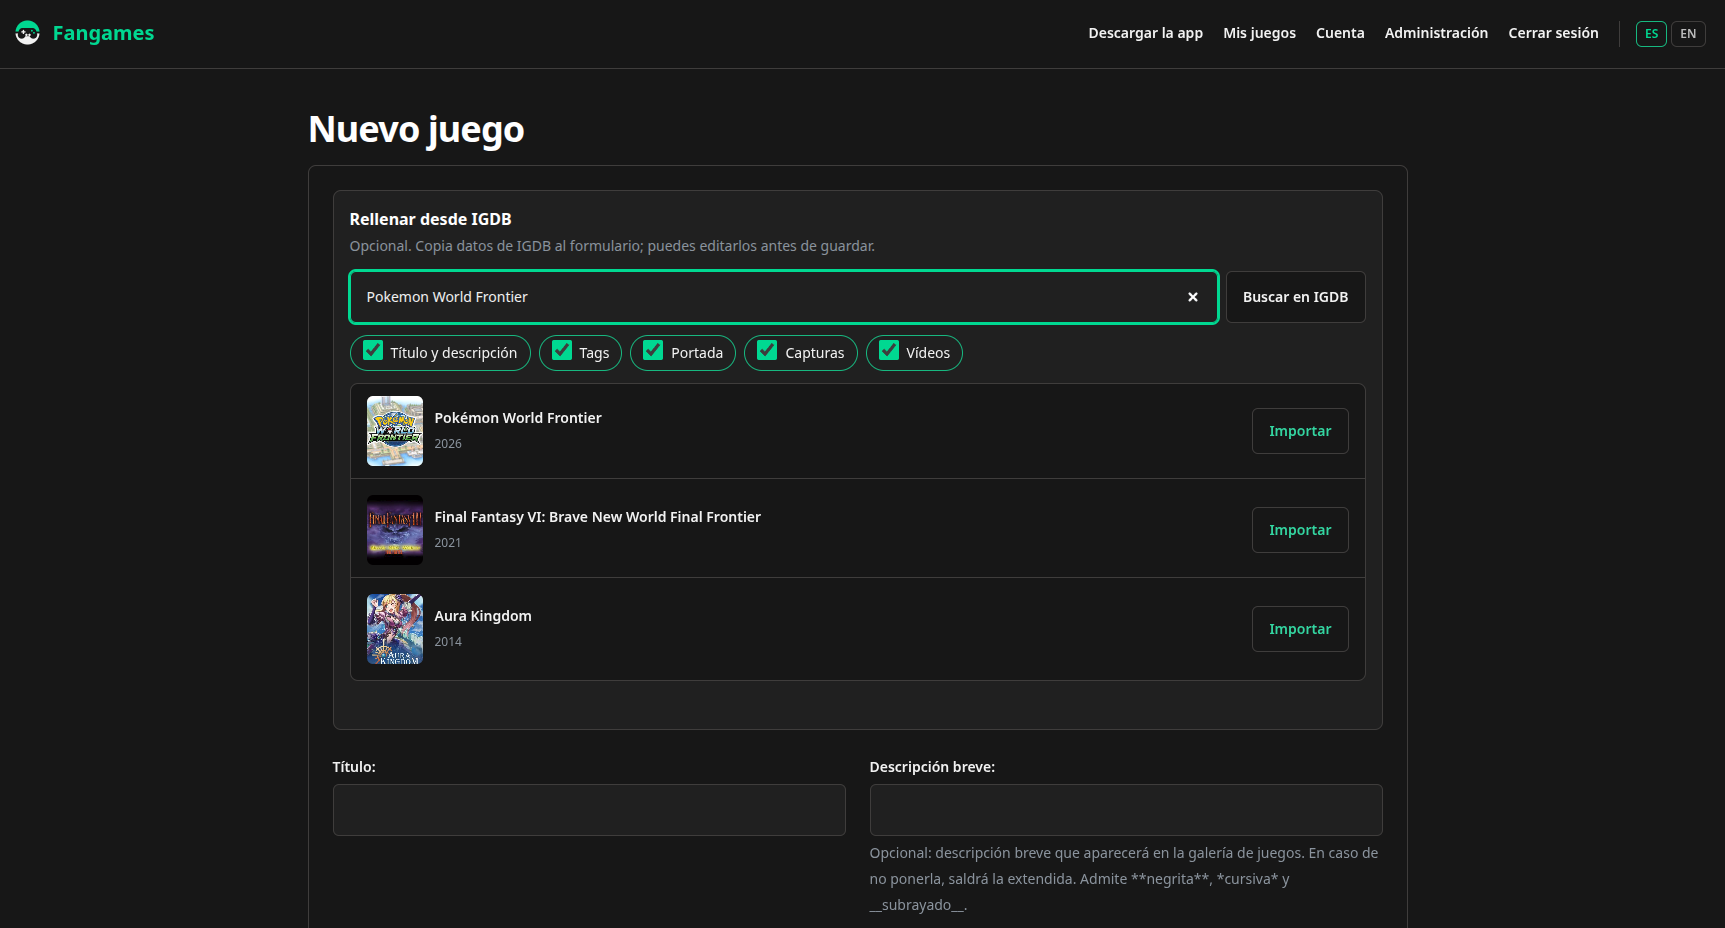
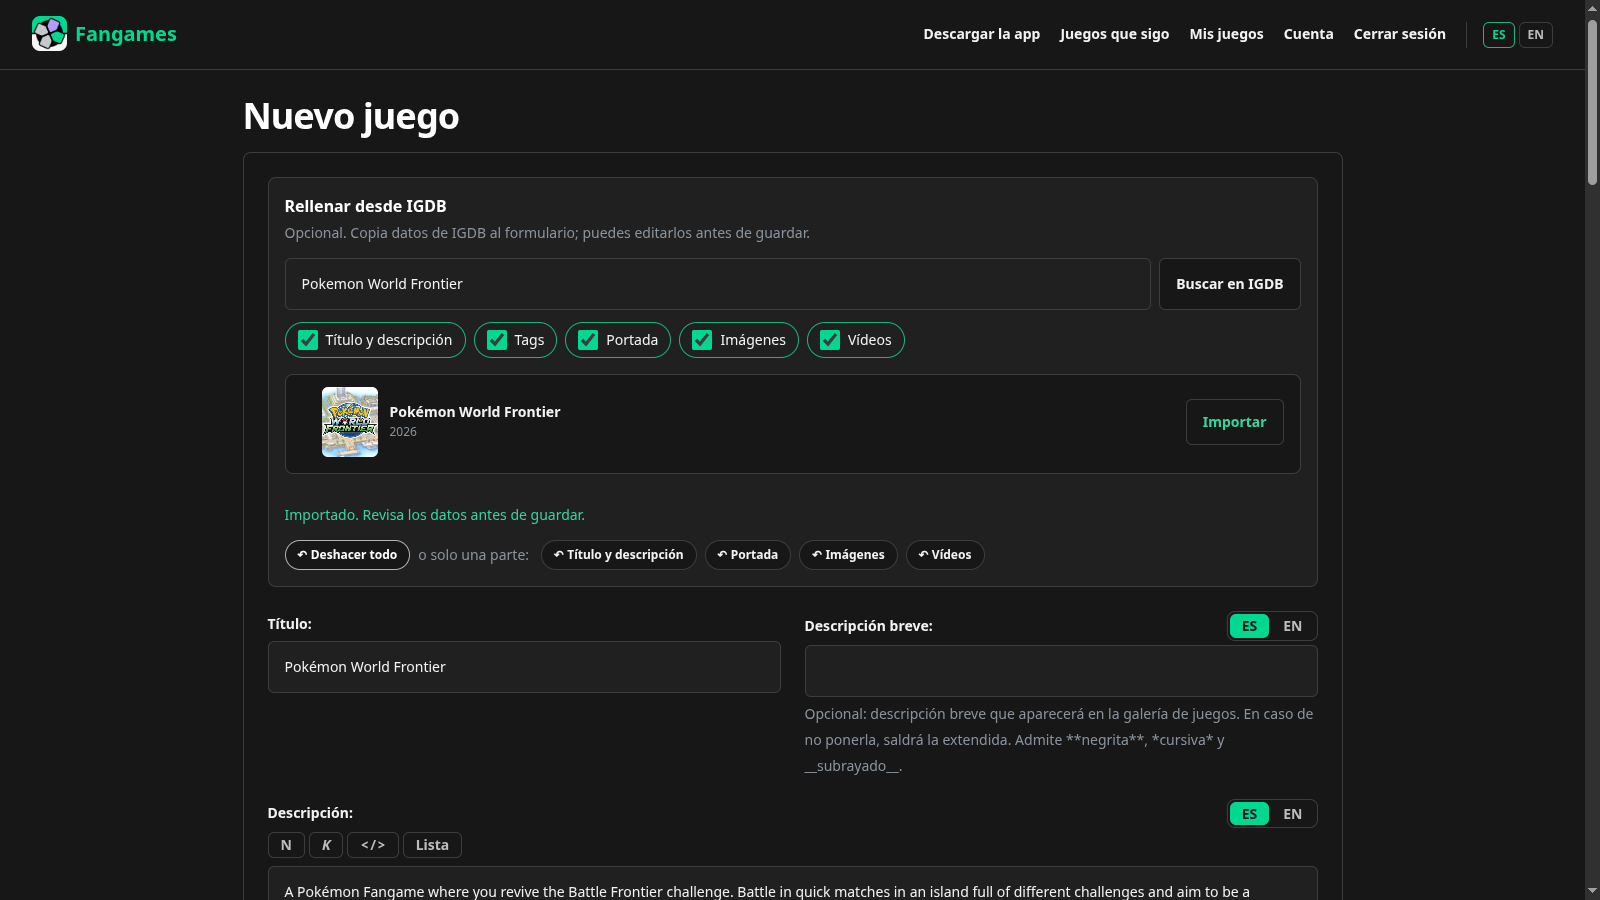
Actualiza capturas de la web de los makers

diff --git a/docs/index.html b/docs/index.html
@@ -117,19 +117,19 @@
     <div class="screens" aria-label="Capturas del portal de makers" data-i18n-aria="makers.screens">
       <figure class="screen">
         <a href="assets/screenshots/makers-igdb.png" aria-label="Ampliar captura de la importación desde IGDB" data-i18n-aria="makers.igdb.link">
-          <img src="assets/screenshots/makers-igdb.png" alt="Buscador de IGDB en el formulario del portal, con resultados e interruptores para elegir qué importar" data-i18n-alt="makers.igdb.alt" width="1137" height="740" loading="lazy" decoding="async">
+          <img src="assets/screenshots/makers-igdb.png" alt="Formulario de makers con el resultado de Pokémon World Frontier en IGDB, categorías para elegir qué importar y la confirmación de importación" data-i18n-alt="makers.igdb.alt" width="1600" height="900" loading="lazy" decoding="async">
         </a>
         <figcaption><h3 data-i18n="makers.igdb.title">Rellena la ficha desde IGDB</h3><p data-i18n="makers.igdb.body">Al crear un juego nuevo, o al editar uno existente, búscalo en IGDB e importa título, descripción, tags, portada, capturas y vídeos. Eliges qué traer, lo editas todo antes de guardar y puedes deshacer la importación.</p></figcaption>
       </figure>
       <figure class="screen">
         <a href="assets/screenshots/makers-publicacion.png" aria-label="Ampliar captura del formulario de publicación" data-i18n-aria="makers.form.link">
-          <img src="assets/screenshots/makers-publicacion.png" alt="Formulario Nuevo juego del portal de makers con título, descripción y autoría pública" data-i18n-alt="makers.form.alt" width="1440" height="1000" loading="lazy" decoding="async">
+          <img src="assets/screenshots/makers-publicacion.png" alt="Formulario de Pokémon World Frontier con descripción importada desde IGDB y vista previa en el launcher" data-i18n-alt="makers.form.alt" width="1600" height="900" loading="lazy" decoding="async">
         </a>
         <figcaption><h3 data-i18n="makers.form.title">Prepara la ficha de tu juego</h3><p data-i18n="makers.form.body">Escribe la presentación y consulta la vista previa de la descripción.</p></figcaption>
       </figure>
       <figure class="screen">
         <a href="assets/screenshots/makers-imagenes.png" aria-label="Ampliar captura de la carga de imágenes" data-i18n-aria="makers.images.link">
-          <img src="assets/screenshots/makers-imagenes.png" alt="Formulario del portal con opciones para mantener una demo disponible y añadir portada y capturas" data-i18n-alt="makers.images.alt" width="1440" height="1000" loading="lazy" decoding="async">
+          <img src="assets/screenshots/makers-imagenes.png" alt="Portada de Pokémon World Frontier y seis capturas de IGDB en la sección de imágenes del portal" data-i18n-alt="makers.images.alt" width="1600" height="900" loading="lazy" decoding="async">
         </a>
         <figcaption><h3 data-i18n="makers.images.title">Portada y capturas</h3><p data-i18n="makers.images.body">Añade una portada y hasta seis capturas, con los límites de formato y tamaño indicados en el portal.</p></figcaption>
       </figure>

diff --git a/docs/locales/en.js b/docs/locales/en.js
@@ -84,15 +84,15 @@ globalThis.FANGAME_EN = {
   "makers.publish.body": "The version appears once it is approved and the date you chose has arrived. Without a scheduled date, it is published as soon as it is approved. Private betas are shared with specific testers.",
   "makers.form.title": "Prepare your game page",
   "makers.form.body": "Write the introduction and check the description preview.",
-  "makers.form.alt": "New game form on the makers portal with title, description and public authorship",
+  "makers.form.alt": "Pokémon World Frontier form with an IGDB description and its launcher preview",
   "makers.form.link": "Enlarge publishing form screenshot",
   "makers.igdb.title": "Fill in your game page from IGDB",
   "makers.igdb.body": "When you create a new game, or edit an existing one, search for it on IGDB and import the title, description, tags, cover, screenshots and videos. You choose what to bring in, edit everything before saving, and can undo the import.",
-  "makers.igdb.alt": "IGDB search in the portal form, with results and toggles to choose what to import",
+  "makers.igdb.alt": "Makers form showing the Pokémon World Frontier IGDB result, import categories and confirmation",
   "makers.igdb.link": "Enlarge IGDB import screenshot",
   "makers.images.title": "Cover and screenshots",
   "makers.images.body": "Add a cover and up to six screenshots, following the format and size limits shown on the portal.",
-  "makers.images.alt": "Portal form with options to keep a demo available and to add a cover and screenshots",
+  "makers.images.alt": "Pokémon World Frontier cover and six IGDB screenshots in the portal image section",
   "makers.images.link": "Enlarge image upload screenshot",
   "makers.screens": "Makers portal screenshots",
 
